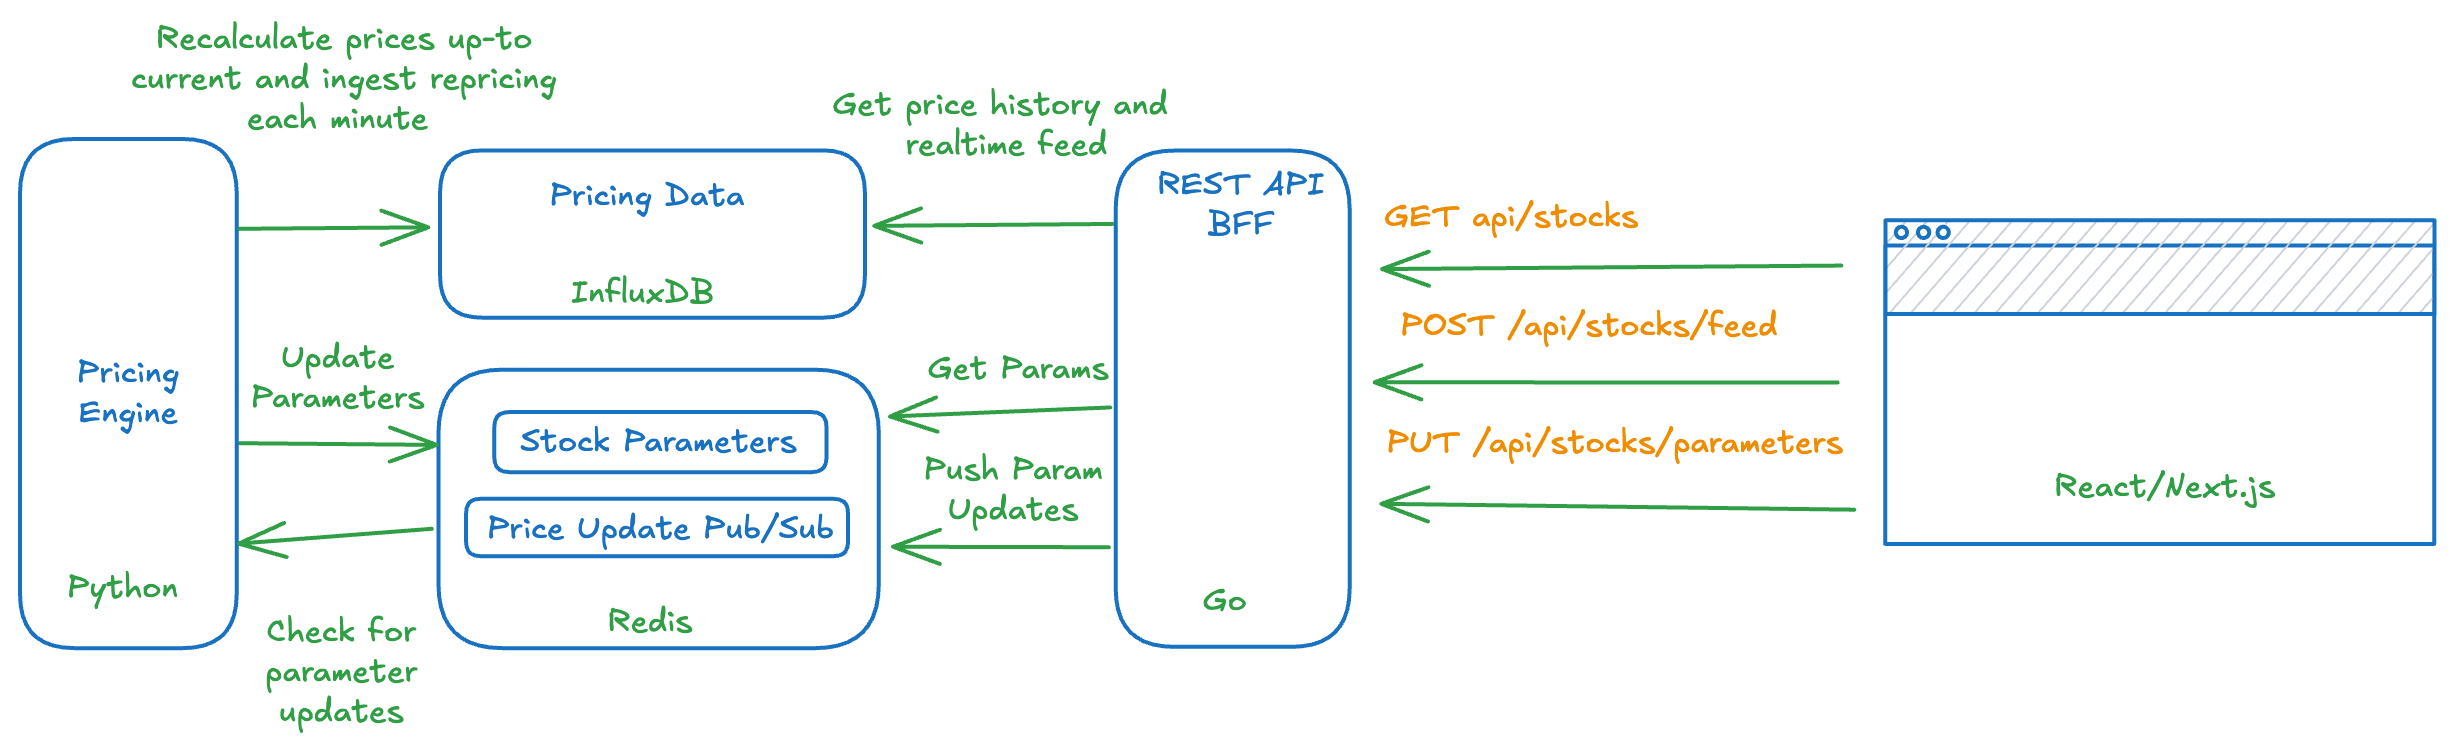
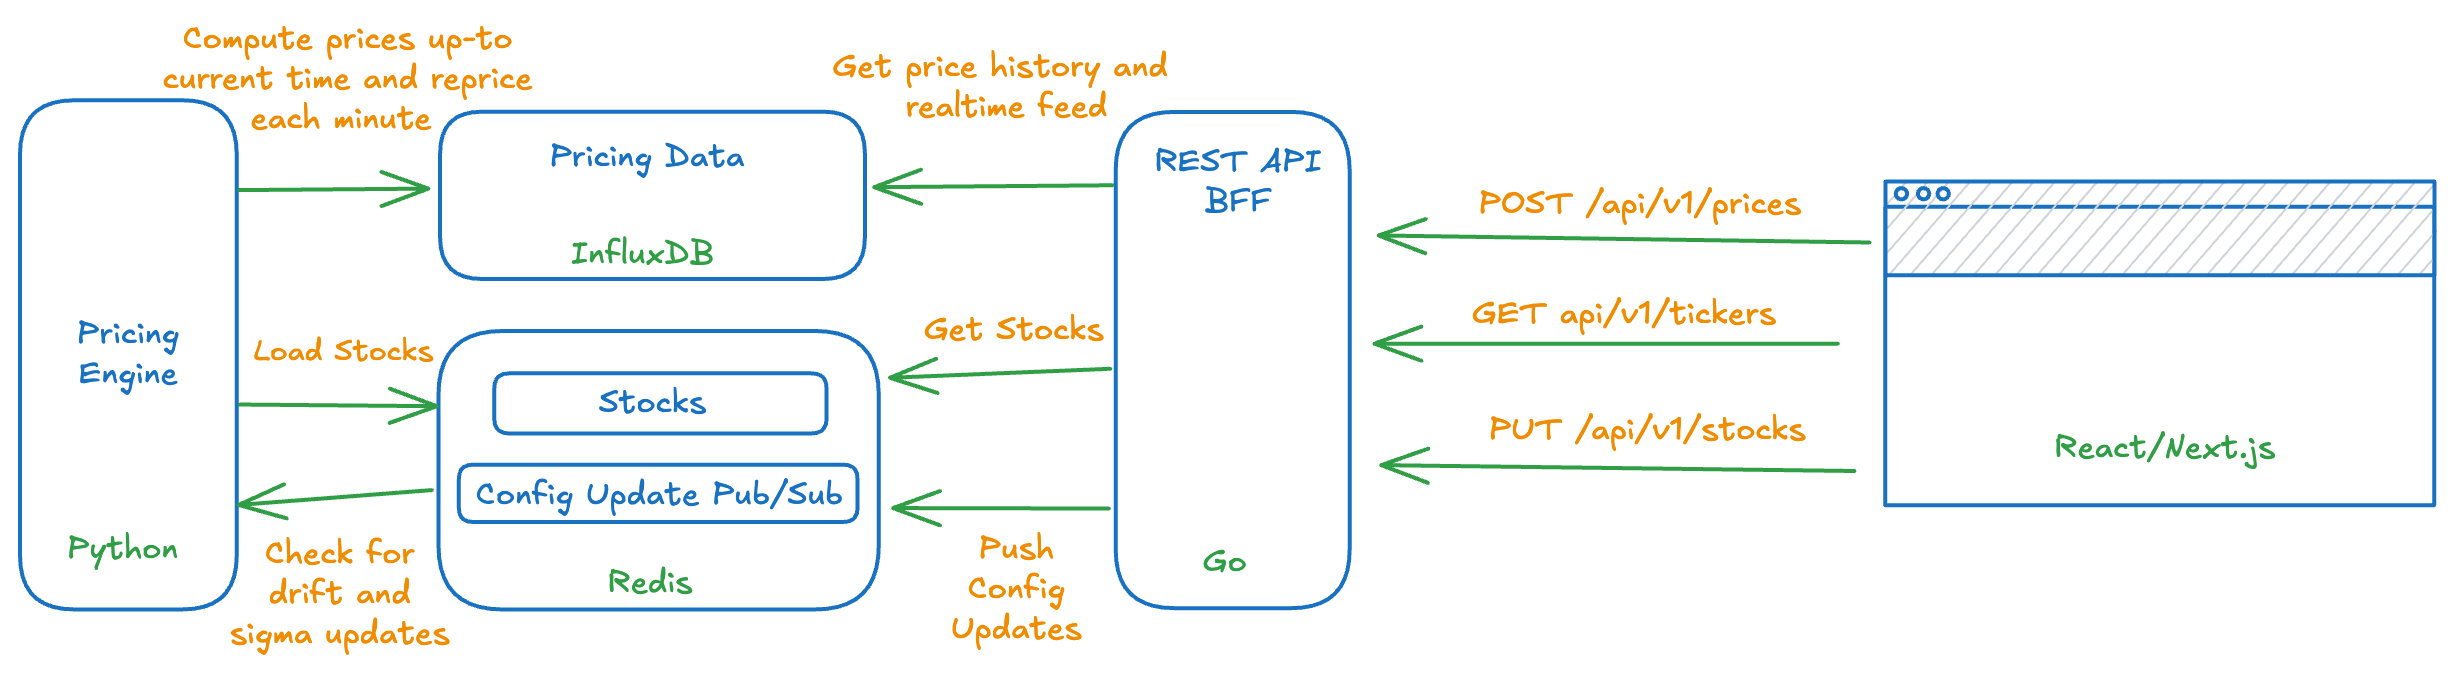
README updates

diff --git a/README.md b/README.md
@@ -32,9 +32,9 @@ InfluxDB and Redis implement event driven communication betwen the pricing engin
 
 The frontend is served by a light-weight Backend For Frontend (BFF) REST APIs server implemented in `Go` for high performance. Due to time-limitations, the data flow is intirely pull-based: after inital load the frontend polls BFF for updates since `last_timestamp`. If this is unacceptable, push-based approaches can be implemented. For example, a Websockets can subcribe to a `Kafka` topic that serves real-time pricing feed and push data to the dashboard.
 
-> To simplify, I do not make sure that numbers are compunicated as strings. This might cause precision issues in production. Another (unrealitic) assumption is that all stocks are priced at the same timestamp and that no data is missing.
+>Because I send tickers in a JSON body, POST is used to "GET" data. To simplify, I do not make sure that numbers are compunicated as strings. This might cause precision issues in production. Another (unrealitic) assumption is that all stocks are priced at the same timestamp and that no data is missing.
 
-### Endpoints:
+### Endpoints
 
 - `GET /api/v1/tickers`: get a list of all tickers priced by the engine
     - Response: `{"tickers": ["MSFT","AAPL","GOOG"]}`
@@ -46,7 +46,6 @@ The frontend is served by a light-weight Backend For Frontend (BFF) REST APIs se
 - `POST api/v1/prices`: get prices for each ticker in a list.
     - Request: `{ "tickers": ["MSFT","AAPL","GOOG"], "after_timestamp": 1679123200 | null }`
     - Response: `{"timestamps": [], {"ticker1": [123.45, 123.46], ticker2: [103.47, 103.48]}`
-
 
 ## Frontend
 
